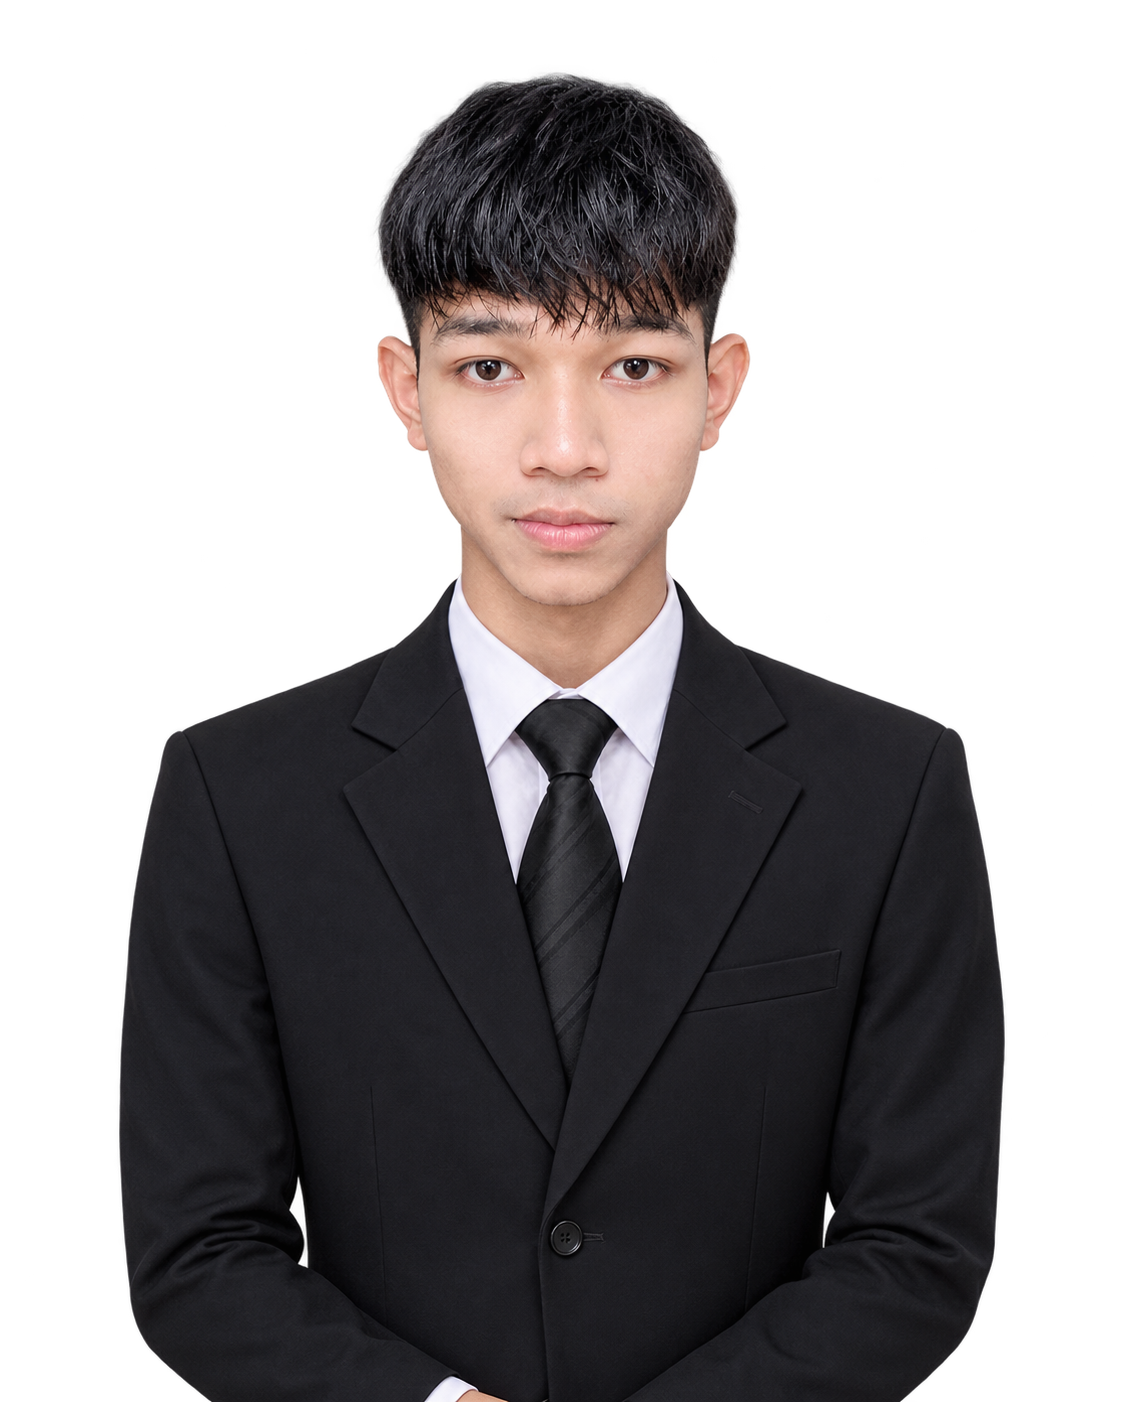
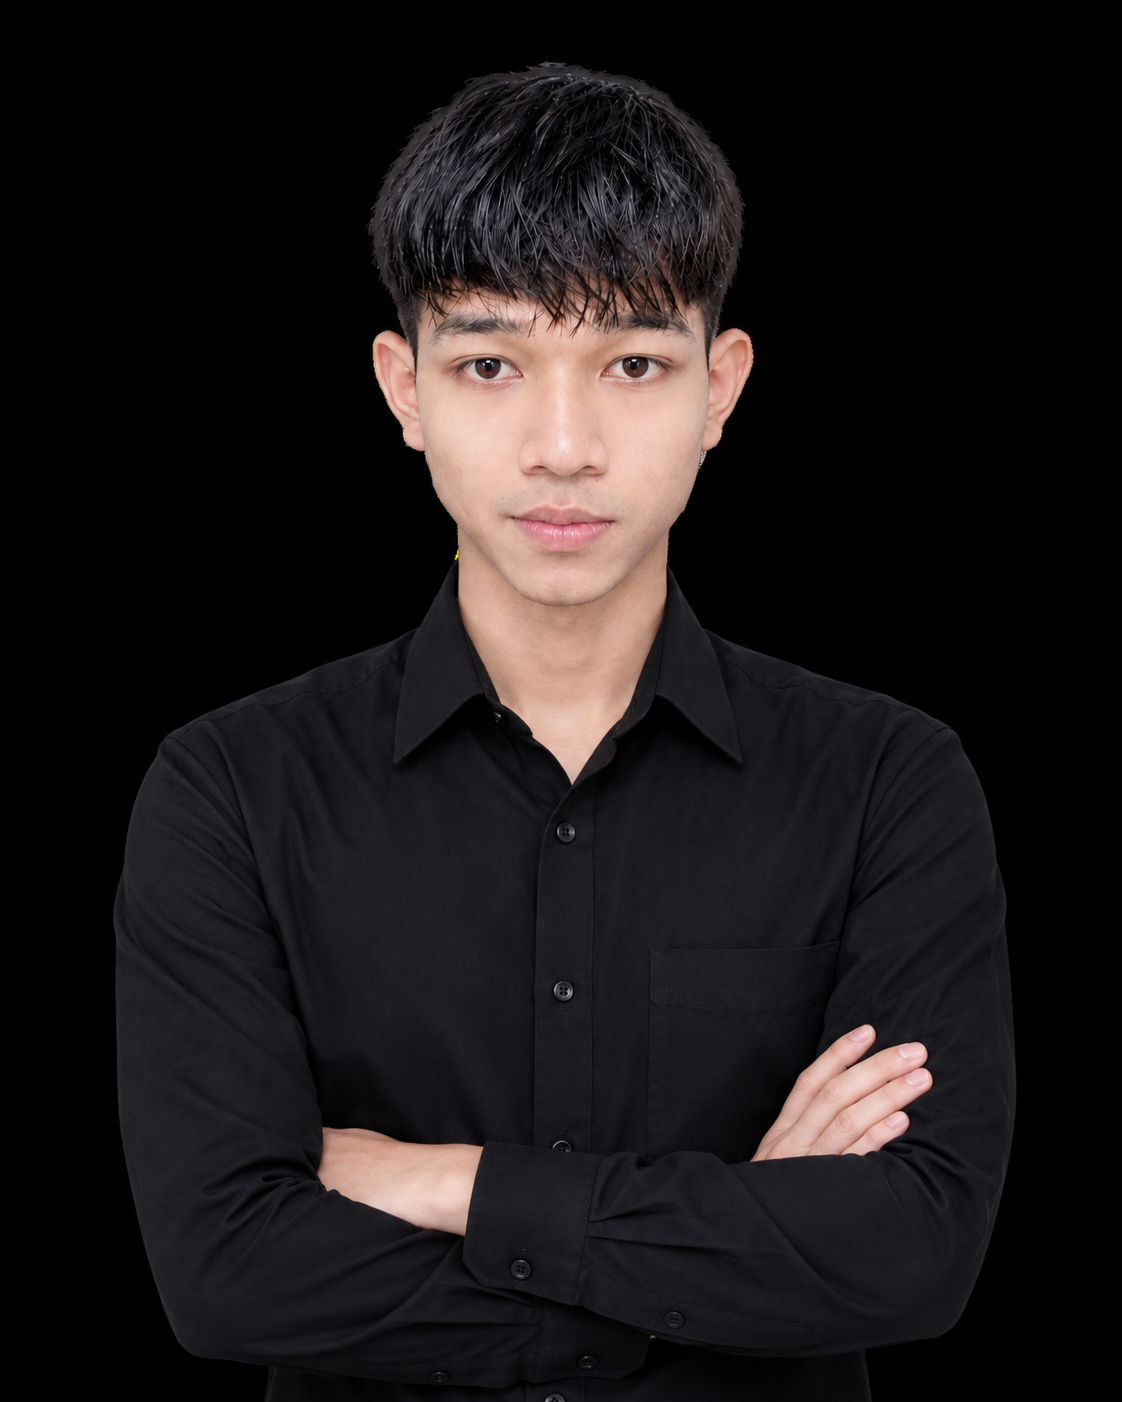
refactor: update Open Graph metadata

diff --git a/src/styles/portfolio.css b/src/styles/portfolio.css
@@ -62,10 +62,25 @@
         .github-activity-profile-link { display:inline-flex; align-items:center; gap:9px; flex-shrink:0; padding:10px 14px; border:1px solid rgba(77,240,192,0.3); border-radius:6px; background:rgba(77,240,192,0.06); color:var(--color-accent); text-decoration:none; font-size:12px; font-weight:800; transition:background 0.2s ease,border-color 0.2s ease,transform 0.2s ease; }
         .github-activity-profile-link:hover, .github-activity-profile-link:focus-visible { transform:translateY(-2px); border-color:var(--color-accent); background:rgba(77,240,192,0.14); }
         .github-activity-profile-link:focus-visible { outline:2px solid var(--color-accent); outline-offset:3px; }
-        .github-activity-stats { display:grid; grid-template-columns:repeat(3,minmax(0,1fr)); gap:12px; margin-bottom:28px; }
+        .github-activity-stats { display:grid; grid-template-columns:repeat(4,minmax(0,1fr)); gap:12px; margin-bottom:28px; }
         .github-activity-stat { min-height:88px; display:flex; flex-direction:column; justify-content:center; gap:5px; padding:16px 18px; border:1px solid rgba(220,228,240,0.1); background:rgba(0,0,0,0.24); }
         .github-activity-stat span { color:var(--color-accent); font-size:24px; line-height:1; font-weight:800; letter-spacing:-0.035em; }
         .github-activity-stat small { color:var(--color-muted); font-size:11px; }
+        .github-activity-feeds { display:grid; grid-template-columns:repeat(3,minmax(0,1fr)); gap:14px; margin-top:18px; }
+        .github-activity-feed-card { min-width:0; padding:20px; border:1px solid rgba(220,228,240,0.1); background:linear-gradient(145deg,rgba(255,255,255,0.025),rgba(255,255,255,0.008)); }
+        .github-activity-feed-heading { display:flex; align-items:flex-start; justify-content:space-between; gap:12px; padding-bottom:16px; border-bottom:1px solid rgba(220,228,240,0.09); }
+        .github-activity-feed-heading h3 { margin:0; color:var(--color-white); font-size:15px; font-weight:800; }
+        .github-activity-feed-heading p { margin:5px 0 0; color:var(--color-white); font-size:11px; line-height:1.5; }
+        .github-activity-feed-count { display:grid; width:28px; height:28px; flex:0 0 28px; place-items:center; border:1px solid rgba(77,240,192,0.26); border-radius:50%; background:rgba(77,240,192,0.07); color:var(--color-accent); font-size:11px; font-weight:800; }
+        .github-activity-feed-list { display:grid; gap:0; margin:0; padding:0; list-style:none; }
+        .github-activity-feed-list li { min-width:0; display:grid; gap:5px; padding:13px 0; border-bottom:1px solid rgba(220,228,240,0.07); }
+        .github-activity-feed-list li:last-child { padding-bottom:0; border-bottom:0; }
+        .github-activity-feed-list a { overflow:hidden; color:var(--color-white); font-size:12px; font-weight:700; line-height:1.5; text-decoration:none; text-overflow:ellipsis; }
+        .github-activity-feed-list a:hover, .github-activity-feed-list a:focus-visible { color:var(--color-accent); }
+        .github-activity-feed-list li > span { overflow:hidden; color:var(--color-white); font-size:10px; line-height:1.5; text-overflow:ellipsis; white-space:nowrap; }
+        .github-activity-repositories a { color:#58a6ff; }
+        .github-activity-repositories a:hover, .github-activity-repositories a:focus-visible { color:#8cc8ff; }
+        .github-activity-feed-empty { margin:14px 0 0; color:var(--color-white); font-size:11px; line-height:1.6; }
         .github-calendar-wrap { padding:20px 18px 16px; border:1px solid rgba(220,228,240,0.09); background:rgba(0,0,0,0.2); }
         .github-calendar-scroll { display:flex; align-items:flex-start; gap:12px; overflow-x:auto; padding:2px 2px 12px; scrollbar-color:#293330 transparent; scrollbar-width:thin; }
         .github-calendar-chart { flex:0 0 auto; }
@@ -93,7 +108,7 @@
         .github-activity-loading { display:grid; gap:22px; }
         .github-calendar-skeleton { display:grid; grid-auto-flow:column; grid-template-rows:repeat(7,var(--calendar-cell)); grid-auto-columns:var(--calendar-cell); gap:var(--calendar-gap); overflow-x:auto; }
         .github-calendar-skeleton i { border-radius:3px; background:linear-gradient(110deg,#15191a,#202c28,#15191a); background-size:200% 100%; animation:repoSkeletonPulse 1.5s ease-in-out infinite; }
-        .github-activity-stat-skeleton { display:grid; grid-template-columns:repeat(3,1fr); gap:12px; }
+        .github-activity-stat-skeleton { display:grid; grid-template-columns:repeat(4,1fr); gap:12px; }
         .github-activity-stat-skeleton i { height:88px; border:1px solid rgba(220,228,240,0.08); background:#0b0b0b; }
         .hero-action { display:inline-flex; align-items:center; justify-content:center; gap:8px; border:1px solid transparent; transition:background 0.22s ease,border-color 0.22s ease,color 0.22s ease,transform 0.22s ease,box-shadow 0.22s ease; }
         .hero-action-primary { background:transparent; border-color:rgba(255,255,255,0.38); color:var(--color-white); }
@@ -116,7 +131,7 @@
           .skill-groups { grid-template-columns: repeat(2, minmax(0, 1fr)) !important; }
           .university-grid { grid-template-columns: repeat(2,minmax(0,1fr)) !important; }
           .github-repos-grid { grid-template-columns: repeat(2,minmax(0,1fr)); }
-          .github-activity-stats { gap:8px; }
+          .github-activity-stats { grid-template-columns:repeat(2,minmax(0,1fr)); gap:8px; }
           .github-activity-stat { padding:14px; }
           .contact-panel { grid-template-columns:1fr; gap:36px; }
           .interactive[style*="display: grid"] { grid-template-columns: 1fr !important; }
@@ -138,7 +153,9 @@
           .github-repos-grid { grid-template-columns: 1fr; }
           .github-repo-card { min-height:210px; padding:22px; }
           .github-activity-header { align-items:flex-start; flex-direction:column; }
-          .github-activity-stats { grid-template-columns:1fr; }
+          .github-activity-stats { grid-template-columns:repeat(2,minmax(0,1fr)); }
+          .github-activity-stat-skeleton { grid-template-columns:repeat(2,minmax(0,1fr)); }
+          .github-activity-feeds { grid-template-columns:1fr; }
           .github-calendar-wrap { padding:14px 10px 12px; }
           .github-calendar-scroll { gap:8px; }
           :root { --calendar-cell:9px; --calendar-gap:3px; }

diff --git a/src/sections/GitHubActivity.jsx b/src/sections/GitHubActivity.jsx
@@ -17,6 +17,78 @@ function ActivityStat({ label, value }) {
   );
 }
 
+function ActivityFeedCard({ title, description, items, totalCount, kind }) {
+  const hasItems = Array.isArray(items);
+  const feedItems = items ?? [];
+
+  return (
+    <section className="github-activity-feed-card" aria-label={title}>
+      <div className="github-activity-feed-heading">
+        <div>
+          <h3>{title}</h3>
+          <p>{description}</p>
+        </div>
+        <span className="github-activity-feed-count">
+          {totalCount === null || totalCount === undefined
+            ? "—"
+            : numberFormat.format(totalCount)}
+        </span>
+      </div>
+      {feedItems.length > 0 ? (
+        <ul className="github-activity-feed-list">
+          {feedItems.map((item) => {
+            const repoName = item.repository_url?.split("/repos/")[1];
+            return (
+              <li key={item.id}>
+                <a href={item.html_url} target="_blank" rel="noopener noreferrer">
+                  {item.title}
+                </a>
+                {repoName && <span>{repoName}</span>}
+              </li>
+            );
+          })}
+        </ul>
+      ) : (
+        <p className="github-activity-feed-empty">
+          {!hasItems
+            ? "Activity is unavailable right now."
+            : kind === "reviews"
+              ? "No public reviews found."
+              : "No public pull requests found."}
+        </p>
+      )}
+    </section>
+  );
+}
+
+function RepositoryLinksCard({ repositories }) {
+  return (
+    <section className="github-activity-feed-card" aria-label="Recently updated repositories">
+      <div className="github-activity-feed-heading">
+        <div>
+          <h3>Repositories</h3>
+          <p>Recently updated public projects</p>
+        </div>
+        <span className="github-activity-feed-count">{repositories?.length ?? "—"}</span>
+      </div>
+      {repositories?.length ? (
+        <ul className="github-activity-feed-list github-activity-repositories">
+          {repositories.map((repository) => (
+            <li key={repository.id}>
+              <a href={repository.html_url} target="_blank" rel="noopener noreferrer">
+                {repository.name} <span aria-hidden="true">↗</span>
+              </a>
+              <span>{repository.description || repository.language || "Public repository"}</span>
+            </li>
+          ))}
+        </ul>
+      ) : (
+        <p className="github-activity-feed-empty">Repository details are unavailable right now.</p>
+      )}
+    </section>
+  );
+}
+
 export function GitHubActivity() {
   const { activity, status, error, retry } = useGitHubActivity();
   const stats = activity
@@ -25,6 +97,10 @@ export function GitHubActivity() {
         activity.publicRepositories !== null && {
           label: "Public repositories",
           value: activity.publicRepositories,
+        },
+        activity.codeReviews !== null && {
+          label: "Pull requests reviewed",
+          value: activity.codeReviews,
         },
         activity.pullRequests !== null && {
           label: "Pull requests",
@@ -71,7 +147,7 @@ export function GitHubActivity() {
               {Array.from({ length: 371 }, (_, index) => <i key={index} />)}
             </div>
             <div className="github-activity-stat-skeleton" aria-hidden="true">
-              <i /><i /><i />
+              <i /><i /><i /><i />
             </div>
           </div>
         )}
@@ -94,6 +170,23 @@ export function GitHubActivity() {
               ))}
             </div>
             <GitHubContributionCalendar contributions={activity.contributions} />
+            <div className="github-activity-feeds">
+              <RepositoryLinksCard repositories={activity.repositories} />
+              <ActivityFeedCard
+                title="Code reviews"
+                description="Public pull requests reviewed"
+                items={activity.recentReviews}
+                totalCount={activity.codeReviews}
+                kind="reviews"
+              />
+              <ActivityFeedCard
+                title="Pull requests"
+                description="Recently updated contributions"
+                items={activity.recentPullRequests}
+                totalCount={activity.pullRequests}
+                kind="pull-requests"
+              />
+            </div>
           </>
         )}
       </div>

diff --git a/src/services/github.js b/src/services/github.js
@@ -20,9 +20,9 @@ async function requestJson(url, signal, headers = {}) {
   return response.json();
 }
 
-export function fetchRepositories(signal) {
+export function fetchRepositories(signal, limit = 6) {
   return requestJson(
-    `https://api.github.com/users/${GITHUB_USERNAME}/repos?sort=updated&per_page=6`,
+    `https://api.github.com/users/${GITHUB_USERNAME}/repos?sort=updated&per_page=${limit}`,
     signal,
   );
 }
@@ -30,14 +30,22 @@ export function fetchRepositories(signal) {
 export async function fetchGitHubActivity(signal) {
   const contributionUrl = `https://github-contributions-api.jogruber.de/v4/${GITHUB_USERNAME}?y=last`;
   const profileUrl = `https://api.github.com/users/${GITHUB_USERNAME}`;
-  const pullRequestsUrl = `https://api.github.com/search/issues?q=author%3A${GITHUB_USERNAME}%20type%3Apr`;
+  const pullRequestsUrl = `https://api.github.com/search/issues?q=author%3A${GITHUB_USERNAME}%20type%3Apr&sort=updated&order=desc&per_page=3`;
+  const reviewsUrl = `https://api.github.com/search/issues?q=reviewed-by%3A${GITHUB_USERNAME}%20type%3Apr&sort=updated&order=desc&per_page=3`;
 
-  const [contributionResult, profileResult, pullRequestsResult] =
-    await Promise.allSettled([
-      requestJson(contributionUrl, signal, { Accept: "application/json" }),
-      requestJson(profileUrl, signal),
-      requestJson(pullRequestsUrl, signal),
-    ]);
+  const [
+    contributionResult,
+    profileResult,
+    pullRequestsResult,
+    reviewsResult,
+    repositoriesResult,
+  ] = await Promise.allSettled([
+    requestJson(contributionUrl, signal, { Accept: "application/json" }),
+    requestJson(profileUrl, signal),
+    requestJson(pullRequestsUrl, signal),
+    requestJson(reviewsUrl, signal),
+    fetchRepositories(signal, 3),
+  ]);
 
   if (contributionResult.status === "rejected") {
     throw contributionResult.reason;
@@ -55,6 +63,13 @@ export async function fetchGitHubActivity(signal) {
   const pullRequestData = pullRequestsResult.status === "fulfilled"
     ? pullRequestsResult.value
     : null;
+  const reviewData = reviewsResult.status === "fulfilled"
+    ? reviewsResult.value
+    : null;
+  const repositories = repositoriesResult.status === "fulfilled" &&
+    Array.isArray(repositoriesResult.value)
+    ? repositoriesResult.value
+    : null;
 
   return {
     contributions: contributionData.contributions,
@@ -70,5 +85,15 @@ export async function fetchGitHubActivity(signal) {
     pullRequests: Number.isFinite(pullRequestData?.total_count)
       ? pullRequestData.total_count
       : null,
+    recentPullRequests: pullRequestsResult.status === "fulfilled" && Array.isArray(pullRequestData?.items)
+      ? pullRequestData.items
+      : null,
+    codeReviews: Number.isFinite(reviewData?.total_count)
+      ? reviewData.total_count
+      : null,
+    recentReviews: reviewsResult.status === "fulfilled" && Array.isArray(reviewData?.items)
+      ? reviewData.items
+      : null,
+    repositories,
   };
 }

diff --git a/src/data/portfolioData.js b/src/data/portfolioData.js
@@ -14,7 +14,7 @@ import {
   SiAndroidstudio, SiCakephp, SiCplusplus, SiCss, SiDart, SiExpress,
   SiFlutter, SiGit, SiGithub, SiGitlab, SiHtml5, SiIntellijidea,
   SiJavascript, SiLaravel, SiMysql, SiNotion, SiPhp, SiPostgresql,
-  SiPostman, SiReact, SiSpringboot, SiSwagger, SiTailwindcss,
+  SiPostman, SiReact, SiSpringboot, SiSwagger, SiTailwindcss, SiTiktok,
 } from "react-icons/si";
 import classFeedbackImg from "../assets/biu-se/class-feedback.jpg";
 import tripImg from "../assets/biu-se/trip.jpg";
@@ -37,7 +37,7 @@ export const skillGroups = [
     ],
   },
   {
-    title: "FullStack Development",
+    title: "Software Development",
     icon: FaLayerGroup,
     description: "Frameworks and databases for building complete applications.",
     items: [
@@ -169,5 +169,12 @@ export const contacts = [
     href: "https://www.facebook.com/sem.bunlisem.14jan",
     target: "_blank",
     Icon: FaFacebook,
+  },
+  {
+    label: "TikTok",
+    value: "tiktok.com/@s.bunli.jan14",
+    href: "https://www.tiktok.com/@s.bunli.jan14",
+    target: "_blank",
+    Icon: SiTiktok,
   },
 ];

diff --git a/index.html b/index.html
@@ -18,11 +18,12 @@
 
   <!-- Open Graph / Facebook -->
   <meta property="og:type" content="website" />
-  <meta property="og:url" content="https://sembunli.vercel.app/" />
+  <meta property="og:url" content="https://www.bunli-it.site/" />
   <meta property="og:title" content="Sem Bunly | Software Engineering Student" />
   <meta property="og:description"
     content="3rd Year Software Engineering student at BIU, focused on building scalable and efficient applications" />
-  <meta property="og:image" content="/poster.jpg" />
+  <meta property="og:image" content="https://www.bunli-it.site/man1.png" />
+  <meta property="og:image:alt" content="Sem Bunly" />
 </head>
 
 <body>

diff --git a/src/sections/Hero.jsx b/src/sections/Hero.jsx
@@ -120,7 +120,7 @@ export function Hero() {
             >
               View Work <span aria-hidden="true">→</span>
             </a>
-            <a
+            {/* <a
               className="hero-action hero-action-secondary"
               href="https://docs.bunli-it.site/"
               target="_blank"
@@ -135,7 +135,7 @@ export function Hero() {
               }}
             >
               Project <span aria-hidden="true">↗</span>
-            </a>
+            </a> */}
           </div>
         </div>
 

diff --git a/public/sw.js b/public/sw.js
@@ -1,4 +1,4 @@
-const CACHE_NAME = "sembunly-portfolio-v1";
+const CACHE_NAME = "sembunly-portfolio-v2";
 const APP_SHELL = [
   "/",
   "/manifest.json",
